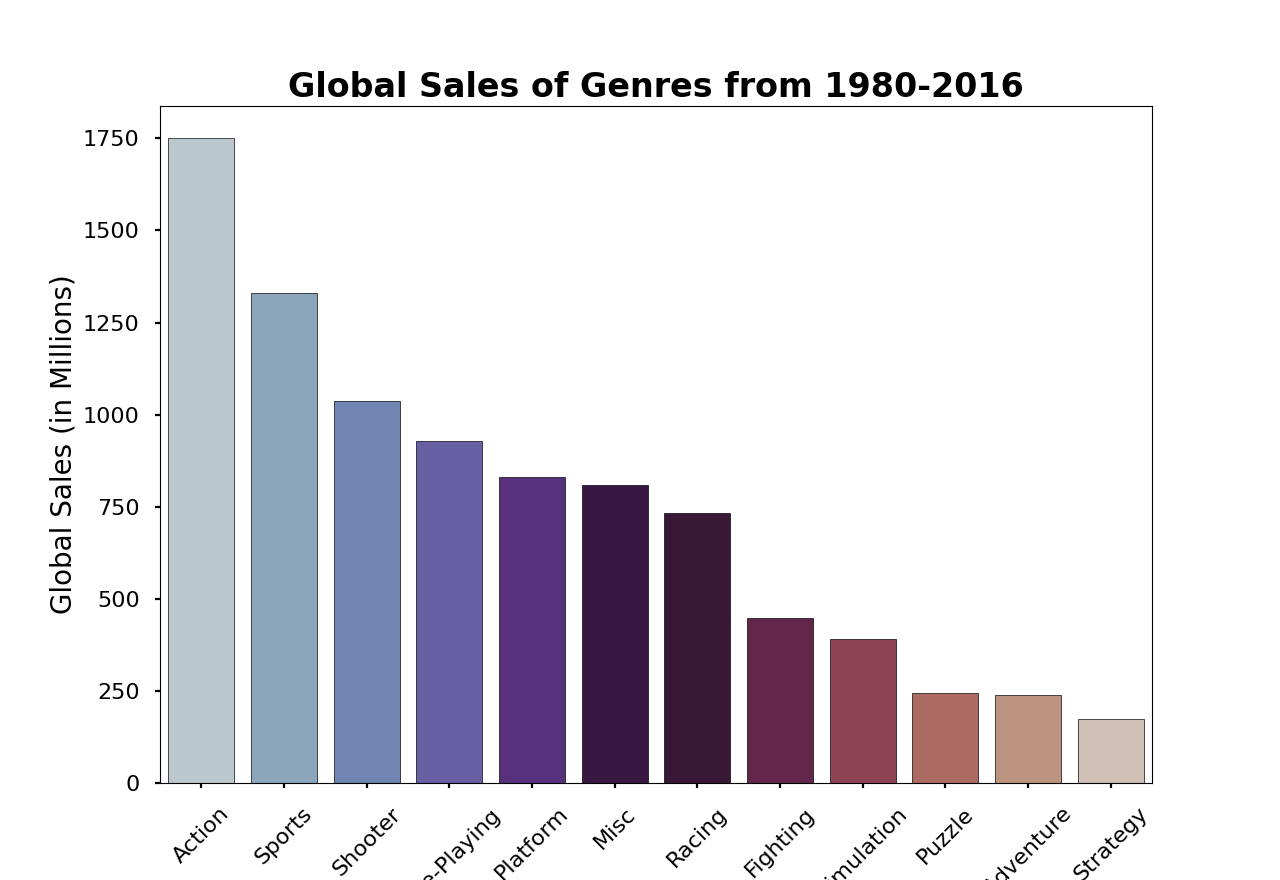
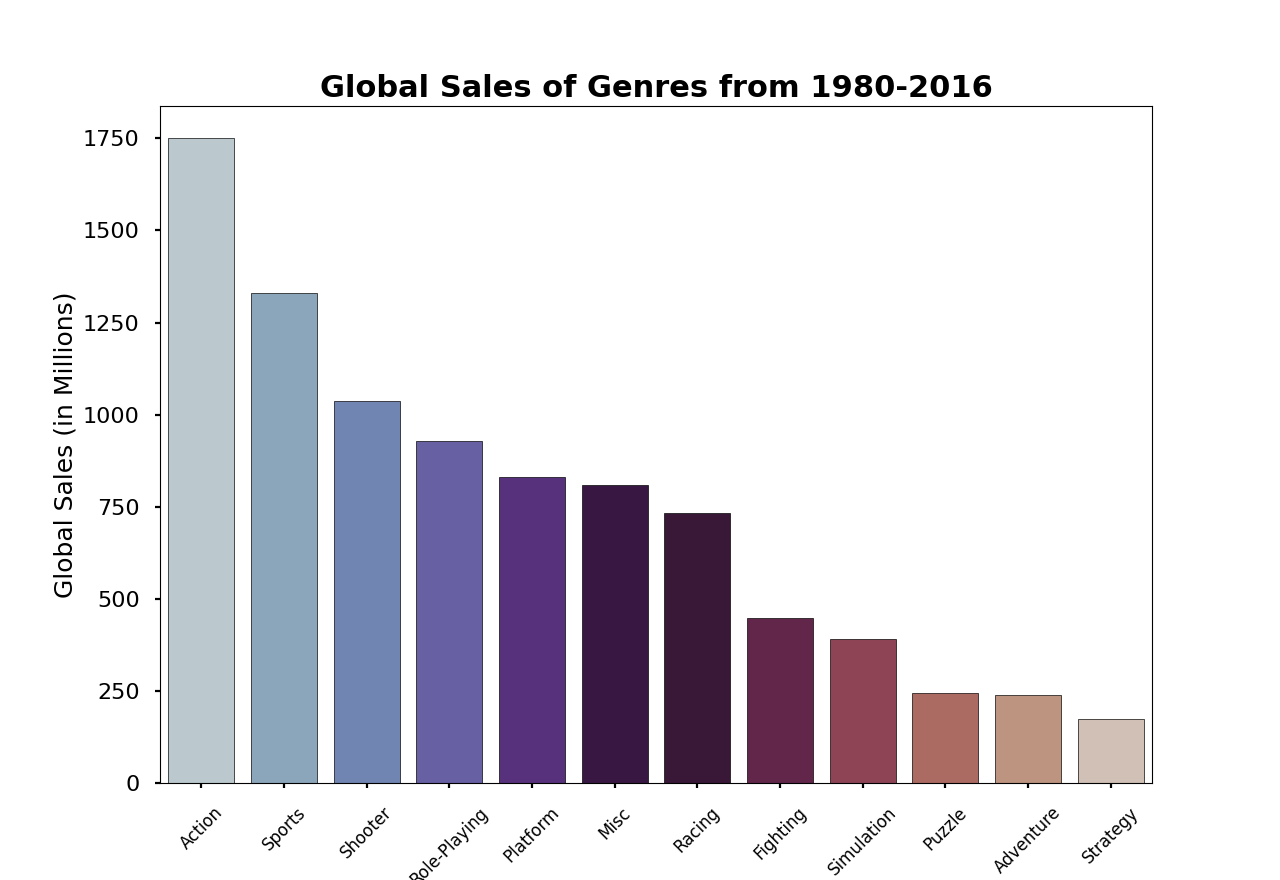
Resize some charts

diff --git a/EDA.py b/EDA.py
@@ -51,17 +51,18 @@ def eda(df):
     genre_global_sales = df.groupby(['Genre'])['Global_Sales'].sum().sort_values(ascending=False)
     print(genre_global_sales)
     sns.barplot(x=genre_global_sales.index, y=genre_global_sales.values, ec='Black', palette='twilight')
-    plt.xticks(rotation=45)
-    plt.xlabel('Genre', fontsize=20)
-    plt.ylabel('Global Sales (in Millions)', fontsize=20)
-    plt.title('Global Sales of Genres from 1980-2016', fontweight='bold', fontsize=24)
+    plt.xticks(rotation=45, fontsize=12)
+    plt.xlabel('Genre', fontsize=18)
+    plt.ylabel('Global Sales (in Millions)', fontsize=18)
+    plt.title('Global Sales of Genres from 1980-2016', fontweight='bold', fontsize=22)
     plt.savefig('Charts/GlobalSales_ofGenres')
+    plt.tight_layout()
     plt.show()
 
     top5_genres_list = df.groupby(['Genre'])['Global_Sales'].sum().sort_values(ascending=False).head(5).index
     print([i for i in top5_genres_list])
     top5_genre_df = df[df.Genre.isin(top5_genres_list)]
-    fig, (ax0,ax1) = plt.subplots(2,2, figsize=(15,10))
+    fig, (ax0,ax1) = plt.subplots(2,2, figsize=(17,10))
 
     fig.suptitle('Top 5 Genres and their Sales (in Millions) Respective to their Country', fontsize=20, fontweight = 'bold')
 
